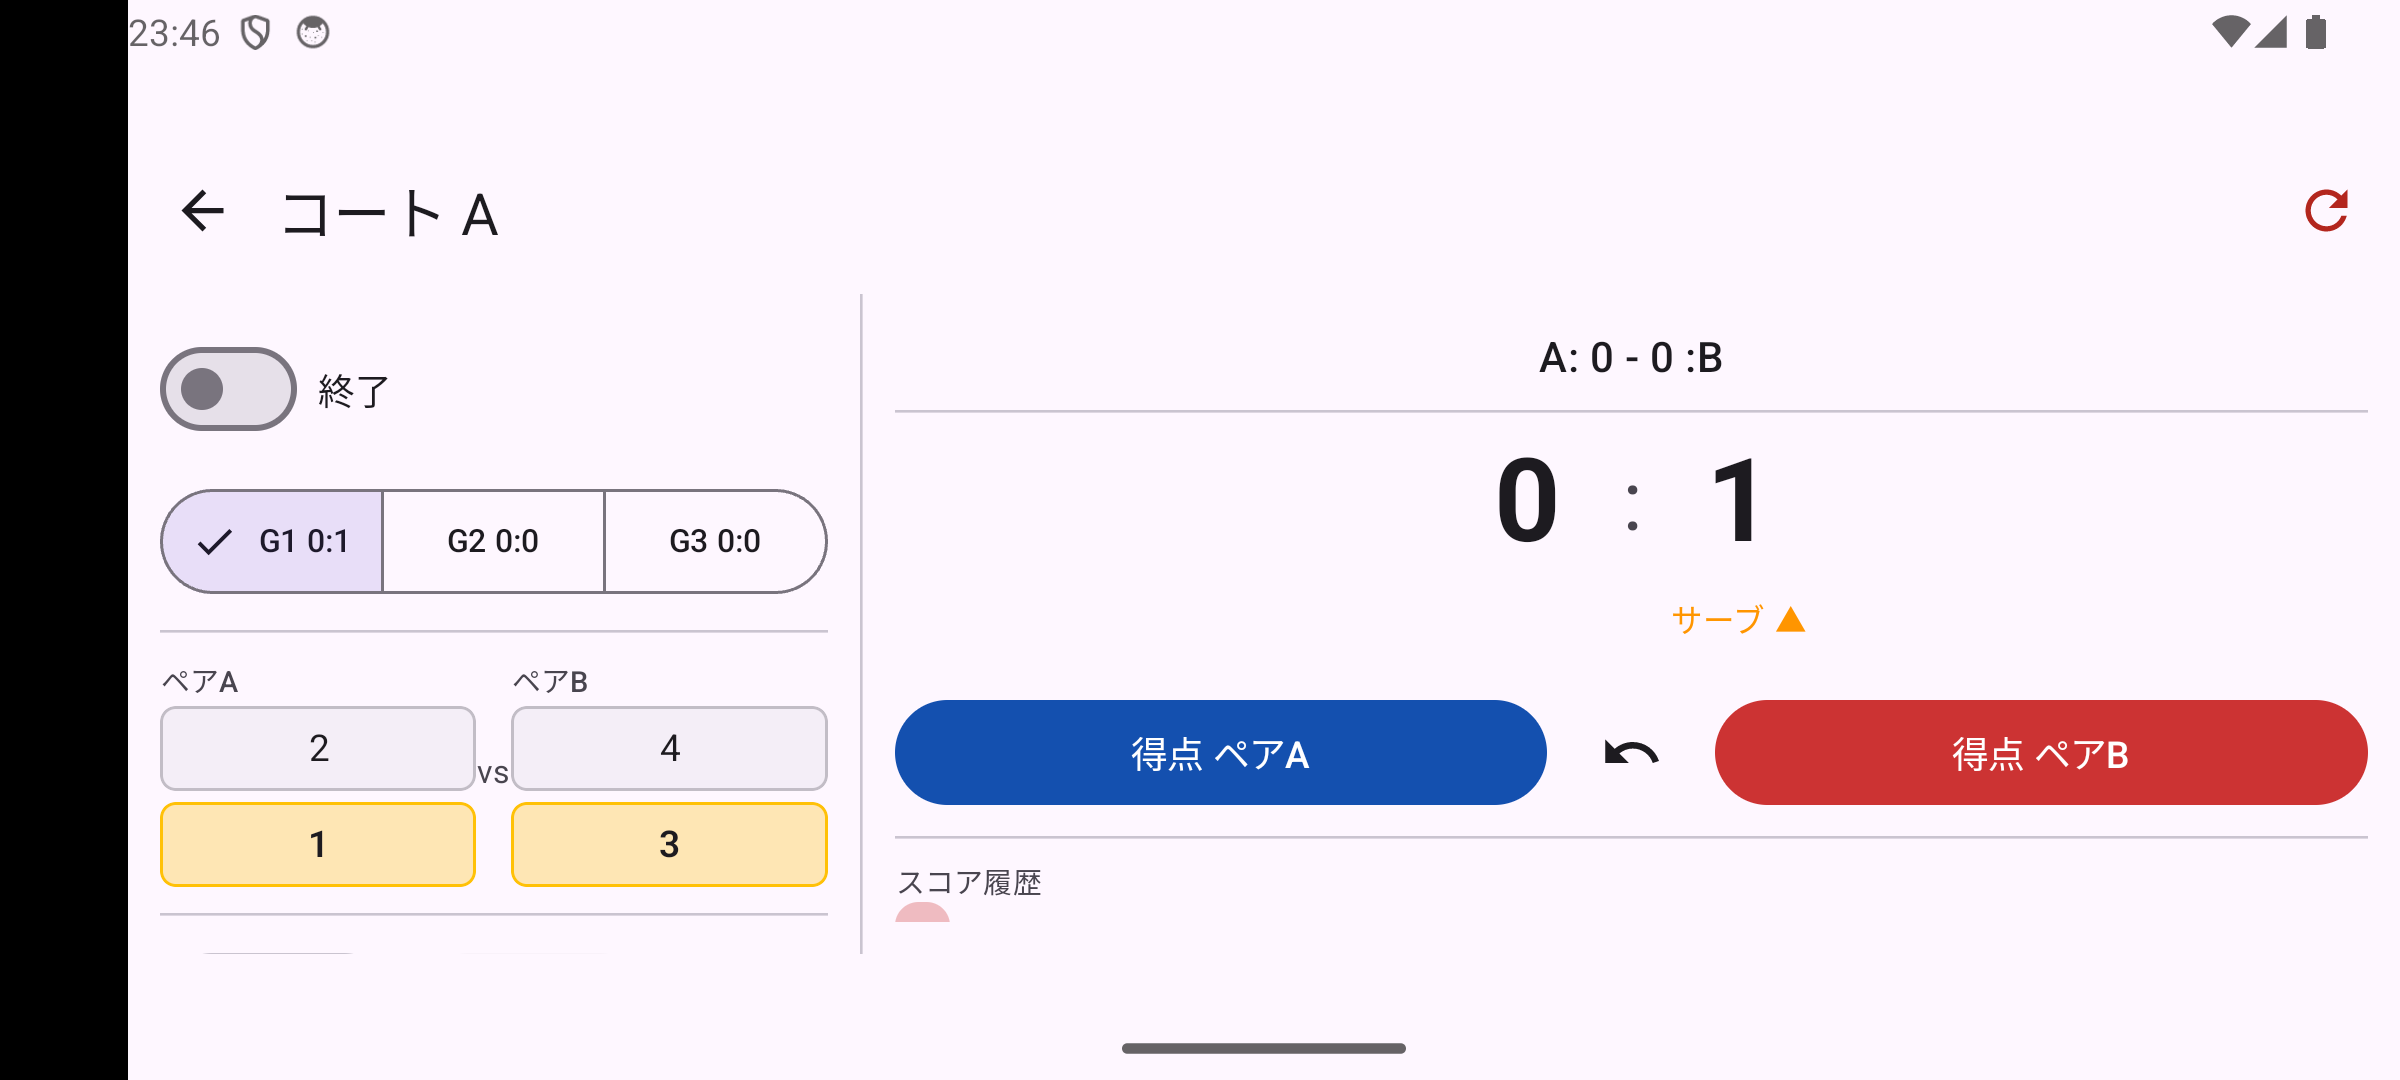
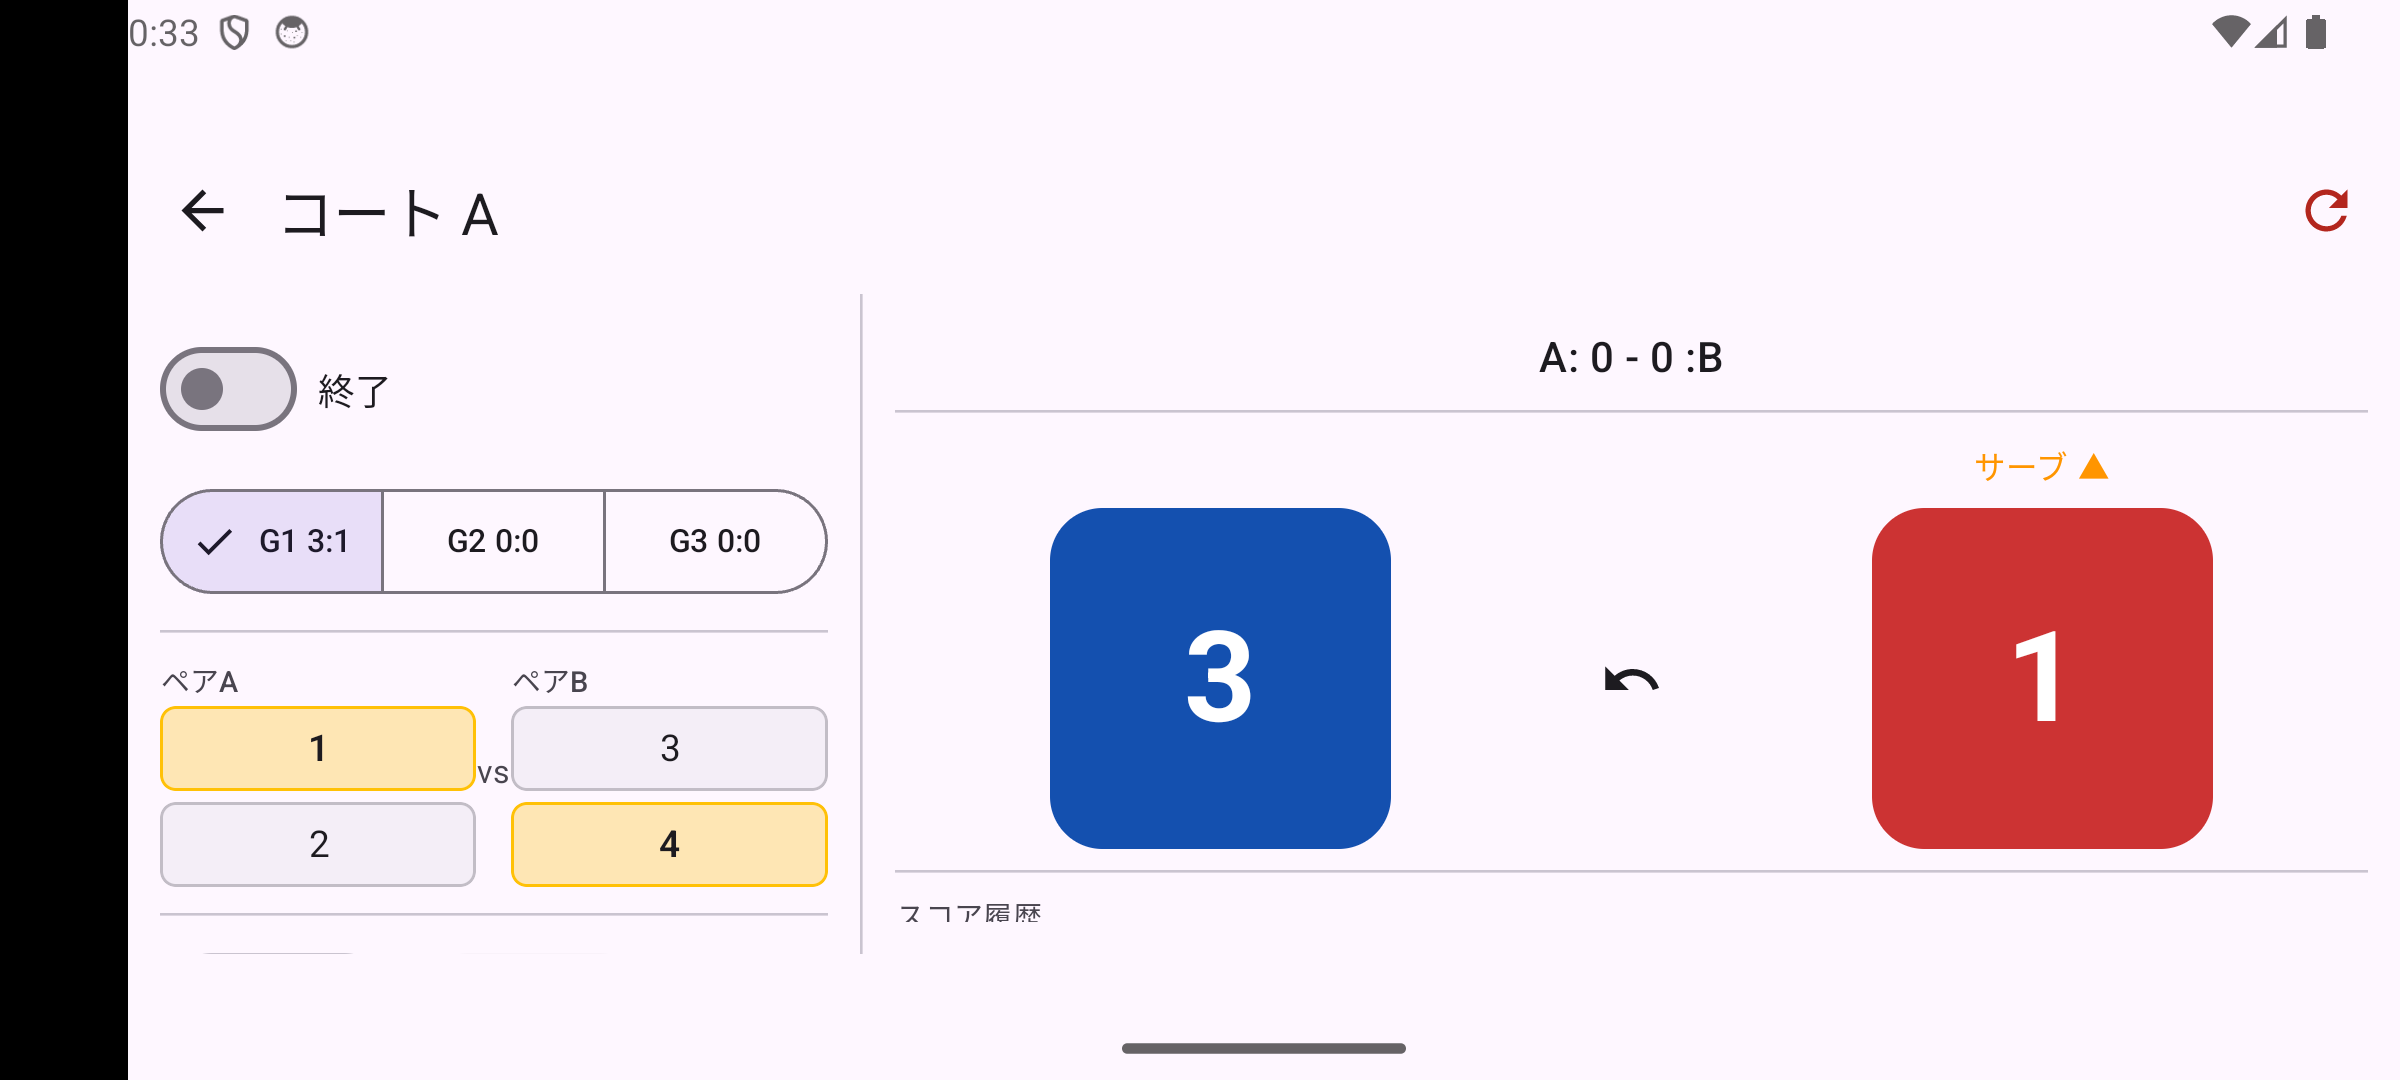
スコア入力画面のレイアウト再設計をヘルプに反映
iOS版の再設計（得点ボタンをスコア表示位置に統合した青/赤の大きな
正方形ボタン、サーブインジケーターの配置、Undoボタンの中央配置）に
合わせてgame-tab.html・home.html・update-history.htmlを更新。
score-main.pngも新UIのスクリーンショットに差し替え。

diff --git a/game-tab.html b/game-tab.html
@@ -72,13 +72,13 @@
 <div class="tip">💡 プレイヤーごと最初からやり直したい場合は、プレイヤータブの「プレイヤーのリセット」をご利用ください。</div>
 
 <h2 id="score-input">5. スコア入力</h2>
-<p>ゲームタブのゲーム行をタップすると、スコア入力画面が開きます（横向き画面で表示されます）。画面左側には、そのコートで何ゲーム目かを切り替える <code>G1 / G2 / G3</code> ピッカーと、画面右側にはここまでの勝ちゲーム数（<code>A: 0 - 0 :B</code>）が表示されます。いずれも常に <strong>ペアA:ペアB</strong> の順で固定表示され、後述のエンドチェンジを行っても入れ替わりません。</p>
+<p>ゲームタブのゲーム行をタップすると、スコア入力画面が開きます（横向き画面で表示されます）。画面は上から順に、<code>終了</code> トグル、そのコートで何ゲーム目かを切り替える <code>G1 / G2 / G3</code> ピッカーとここまでの勝ちゲーム数（<code>A: 0 - 0 :B</code>）、プレイヤー表示、<code>エンド</code> / <code>サーブ</code> ボタン、得点ボタンという構成です。勝ちゲーム数とゲームピッカーのスコアは、常に <strong>ペアA:ペアB</strong> の順で固定表示され、後述のエンドチェンジを行っても入れ替わりません。</p>
 <p>プレイヤー表示には、それぞれ <strong>ペアA</strong> / <strong>ペアB</strong>（内部の pairA・pairB に対応）のラベルが付きます。こちらはエンドチェンジで実際の左右位置が入れ替わると、表示も一緒に切り替わります。</p>
 <div class="ss"><img src="images/score-main.png" alt="スコア入力画面"></div>
 
 <h3 id="input-score">得点を入力する</h3>
-<p><code>得点 ペアA</code> または <code>得点 ペアB</code> ボタンをタップすると、それぞれのペアに1点が加算されます。ボタンは画面左右の位置に固定されており、後述のエンドチェンジでペアが入れ替わると、ボタンのラベルもそれに合わせて切り替わります。</p>
-<p>得点に合わせてサーブ権が自動で切り替わり、サーブ権を持つチームに「▲ サーブ」マークが表示されます。</p>
+<p>青（ペアA）・赤（ペアB）の大きな正方形ボタンに、それぞれの現在の得点が数字で表示されています。このボタンをタップすると、そのペアに1点が加算されます。ボタンは画面左右の位置に固定されており、後述のエンドチェンジでペアが入れ替わると、表示される数字（担当するペア）もそれに合わせて切り替わります。</p>
+<p>得点に合わせてサーブ権が自動で切り替わり、サーブ権を持つボタンの真上に「▲ サーブ」の表示が出ます。</p>
 <div class="tip">💡 得点は最大 30 点まで入力できます。</div>
 
 <h3 id="undo-score">得点を取り消す</h3>

diff --git a/home.html b/home.html
@@ -61,11 +61,10 @@
   <li>試合結果メール本文は英語のみ（UI本体は日本語対応）</li>
 </ul>
 
-<h2>バージョン 1.2.6 更新内容</h2>
+<h2>バージョン 1.2.7 更新内容</h2>
 <ul>
-  <li>ゲーム切り替えタブと勝ちゲーム数の表示が、エンドチェンジのたびに入れ替わる不具合を修正（常にペアA:ペアBの順で固定表示）</li>
-  <li>スコア入力画面にペアA/ペアBのラベルを追加し、得点ボタンの表示もより分かりやすく変更</li>
-  <li>スコア画面のレイアウトを調整</li>
+  <li>得点ボタンをスコア表示位置に統合し、青（ペアA）/赤（ペアB）の大きな正方形ボタンに現在のスコアを直接表示する形に変更</li>
+  <li>サーブインジケーターを各得点ボタンの真上に配置し、元に戻す（Undo）ボタンも中央に配置</li>
 </ul>
 
 <h2>フィードバック</h2>

diff --git a/index.html b/index.html
@@ -61,11 +61,10 @@
   <li>試合結果メール本文は英語のみ（UI本体は日本語対応）</li>
 </ul>
 
-<h2>バージョン 1.2.6 更新内容</h2>
+<h2>バージョン 1.2.7 更新内容</h2>
 <ul>
-  <li>ゲーム切り替えタブと勝ちゲーム数の表示が、エンドチェンジのたびに入れ替わる不具合を修正（常にペアA:ペアBの順で固定表示）</li>
-  <li>スコア入力画面にペアA/ペアBのラベルを追加し、得点ボタンの表示もより分かりやすく変更</li>
-  <li>スコア画面のレイアウトを調整</li>
+  <li>得点ボタンをスコア表示位置に統合し、青（ペアA）/赤（ペアB）の大きな正方形ボタンに現在のスコアを直接表示する形に変更</li>
+  <li>サーブインジケーターを各得点ボタンの真上に配置し、元に戻す（Undo）ボタンも中央に配置</li>
 </ul>
 
 <h2>フィードバック</h2>

diff --git a/update-history.html b/update-history.html
@@ -16,6 +16,12 @@
 <p class="back-link"><a href="home.html">← ホームに戻る</a></p>
 <h1>更新履歴</h1>
 
+<h2>v1.2.7</h2>
+<ul>
+  <li>得点ボタンをスコア表示位置に統合し、青（ペアA）/赤（ペアB）の大きな正方形ボタンに現在のスコアを直接表示する形に変更（「得点 ペアA」「得点 ペアB」の文字ボタンは廃止）（iOS反映）</li>
+  <li>サーブインジケーターを各得点ボタンの真上に来るよう配置し、元に戻す（Undo）ボタンも中央に配置</li>
+</ul>
+
 <h2>v1.2.6</h2>
 <ul>
   <li>ゲーム切り替えタブ（G1/G2/G3）と勝ちゲーム数の表示が、エンドチェンジのたびに入れ替わって表示されてしまう不具合を修正（常にペアA:ペアBの順で固定表示）（iOS反映）</li>
